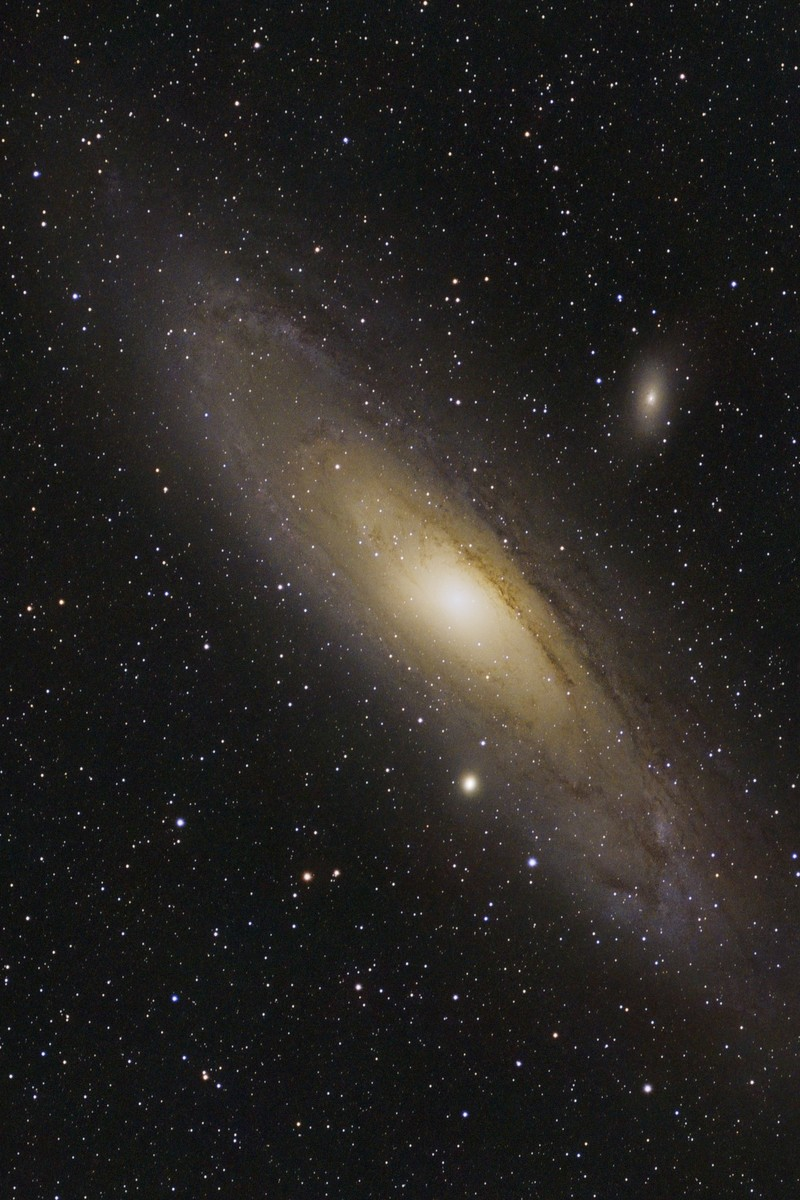
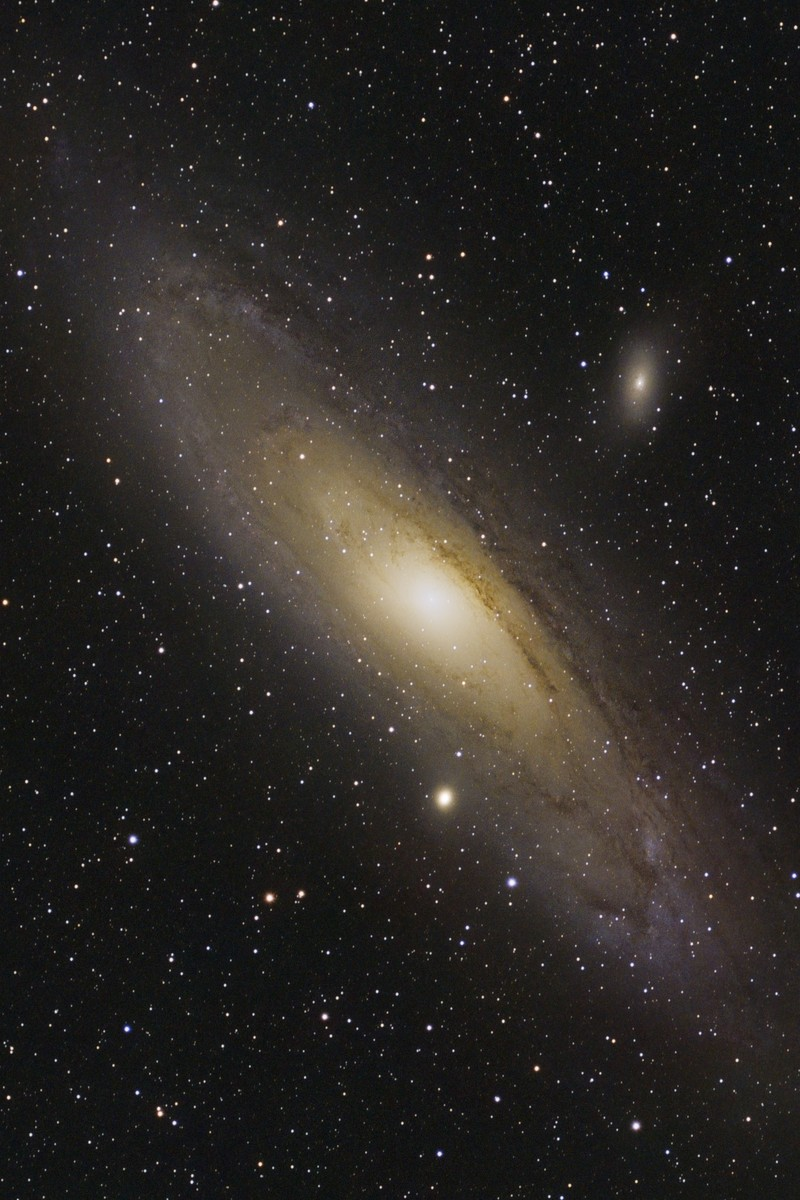
README images from two nights of M31; how to combine nights
The README, gallery and comparison images now come from two nights:
734 subs of 30 s, 6 h 7 min, against 346 and 2 h 53 min before. The
stack's signal-to-noise ratio rose by about 18%.

diff --git a/README.md b/README.md
@@ -8,13 +8,13 @@ I wrote it to process a night of M31 from a ZWO Seestar S30 Pro, then turned tho
 
 ![M31, the Andromeda Galaxy, with satellite galaxies M32 (below the core) and M110 (upper right). The galaxy runs diagonally from upper left to lower right, with a warm yellow core, bluer outer arms and visible dark dust lanes, in a dense field of small stars.](docs/images/m31_final.jpg)
 
-M31 with M32 and M110. ZWO Seestar S30 Pro (160 mm focal length, Sony IMX585 one-shot-colour sensor, IR-cut filter, equatorial mode) at gain 200. 346 of 404 subs of 30 s kept, 2 h 53 min in total, on the night of 2026-11-15. Calibrated with the Seestar's own 5-frame master dark; no flats or bias. Finished with the galaxy look and the optional deconvolution stage at strength 0.5; more targets and full-size crops are in the [gallery](docs/gallery.md).
+M31 with M32 and M110. ZWO Seestar S30 Pro (160 mm focal length, Sony IMX585 one-shot-colour sensor, IR-cut filter, equatorial mode) at gain 200. Two nights of 30 s subs, 15 and 20 November 2026: 734 kept, 6 h 7 min in total. The second night had a bright Moon, so its frames are noisier, and the frames it took after M31 dropped below 35° and into dawn were left out before stacking. Calibrated with the Seestar's own 5-frame master dark; no flats or bias. Finished with the galaxy look and the optional deconvolution stage at strength 0.5; more targets and full-size crops are in the [gallery](docs/gallery.md).
 
 ## Compared with the Seestar's own stack
 
-![Side-by-side comparison of the same field of M31. Left, labelled "Seestar in-app stack": a grey-white galaxy with a soft core and faint, low-contrast dust lanes. Right, labelled "darkroom": the same galaxy with a yellow core, bluish outer arms, clearer dust lanes, smaller stars and a darker, more neutral background.](docs/images/m31_seestar_vs_darkroom.jpg)
+![Side-by-side comparison of the same field of M31. Left, labelled "Seestar in-app stack (1 night)": a grey-white galaxy with a soft core and faint, low-contrast dust lanes. Right, labelled "darkroom (2 nights)": the same galaxy with a yellow core, bluish outer arms, clearer dust lanes, smaller stars and a darker, more neutral background.](docs/images/m31_seestar_vs_darkroom.jpg)
 
-On the left is the stack the Seestar app built during the session (402 frames), cropped to the same field. On the right is darkroom's. Most of the difference comes from three things: the colour is calibrated against Gaia star colours, the noise is removed before the stretch, and the galaxy and the stars are processed as separate layers, so the stars can be made smaller without touching the galaxy. Some of the colour on the right is a deliberate cosmetic push, described in [configuration](docs/configuration.md#colour-and-sharpening).
+On the left is the stack the Seestar app built during the first night (402 frames), resampled onto darkroom's field through the two images' plate solutions. The app stacks one session at a time, so it cannot combine the two nights. On the right is darkroom's two-night result. Most of the difference comes from three things: the colour is calibrated against Gaia star colours, the noise is removed before the stretch, and the galaxy and the stars are processed as separate layers, so the stars can be made smaller without touching the galaxy. Some of the colour on the right is a deliberate cosmetic push, described in [configuration](docs/configuration.md#colour-and-sharpening).
 
 ![Three panels of the same M31 field. Left, "one 30 s sub": a grey frame where only the bright core and a few stars are visible. Middle, "stacked, quick stretch": the full galaxy and its satellites appear, mostly neutral in colour. Right, "finished": the final processed image.](docs/images/m31_progression.jpg)
 

diff --git a/docs/gallery.md b/docs/gallery.md
@@ -6,11 +6,17 @@ Targets processed with darkroom, with the settings that differ from the defaults
 
 ![M31, the Andromeda Galaxy, with M32 below the core and M110 at upper right, running diagonally across a dense star field.](images/m31_final.jpg)
 
-ZWO Seestar S30 Pro at gain 200: 346 of 404 subs of 30 s, 2 h 53 min in total. Galaxy look, `crop = "2:3"`, and the optional deconvolution stage at `strength = 0.5` with the PSF measured from the image (2.5 px).
+ZWO Seestar S30 Pro at gain 200: two nights, 734 subs of 30 s, 6 h 7 min in total (see [two nights](#two-nights) below). Galaxy look, `crop = "2:3"`, and the optional deconvolution stage at `strength = 0.5` with the PSF measured from the image (2.5 px).
 
 ![Three pairs of 1:1 crops from M31. Left of each pair, "before": the core is a bright white disc and the dust lanes are soft. Right, "core 0.3 + deconv 0.5": the core fades smoothly with no white disc, and the dust lanes and stars are slightly crisper. The bottom pair shows M110, whose core is also less washed out.](images/m31_core_deconv.jpg)
 
-Full-size crops of the core, the dust lanes beside it and M110, before and after the two additions from November 2026. Core compression (`[finish] core = 0.3`, now the galaxy look's default) leaves no pixel in the centre clipped; before it, 7% of the centre 60 pixels across was at 98% brightness or more. Deconvolution makes the dust lanes and stars slightly crisper. The blotchy texture in the faint outer disk is still there in both: it comes from too little integration time, and a stronger denoise did not remove it. See [history](history.md#core-compression).
+Full-size crops of the core, the dust lanes beside it and M110 from the first night alone, before and after the two additions from November 2026. Core compression (`[finish] core = 0.3`, now the galaxy look's default) leaves no pixel in the centre clipped; before it, 7% of the centre 60 pixels across was at 98% brightness or more. Deconvolution makes the dust lanes and stars slightly crisper. The blotchy texture in the faint outer disk is still there in both: it comes from too little integration time, and a stronger denoise did not remove it. See [history](history.md#core-compression).
+
+### Two nights
+
+The first night (15 November) gave 404 subs of 30 s under a dark sky, all of them usable. The second (20 November) gave 827, under an 84% Moon 34° from M31: the sky was 1.6 to 2 times brighter, each frame about 30% noisier, and stars about 15% wider (5.2 against 4.5 pixels). Every sub was scored for M31's altitude, the Sun's altitude, sky level, noise, star count and star size. All 404 from the first night and the 487 from the second taken before M31 dropped below 35° went into one folder; after that the star count halved and the last frames were in dawn light. Siril kept 734 of the 891, 6 h 7 min in total.
+
+Against the first night alone, the signal-to-noise ratio of the stack rose by about 18%: from 5.6 to 6.6 in the faint outer disk and from 19.5 to 23.2 in the bright disk. The moonlit frames count for less than dark ones, so this is less than the 30% the sky noise alone predicted. The outer disk is a little smoother, with less colour mottling; at the size of the image above the two versions are hard to tell apart. Colour calibration matched the first night's (factors 0.715 / 1.000 / 0.956). The area both nights cover is about 7% smaller than one night's, so the 2:3 crop is too.
 
 ## M13, the Hercules Cluster
 

diff --git a/docs/usage.md b/docs/usage.md
@@ -138,6 +138,12 @@ The later stages need an image with data everywhere, so the canvas has to be cro
 
 `--reuse-registration` restacks an already solved mosaic, for example with other `keep_*` settings. A mosaic needs more disk space than a normal stack, since the registered frames are 32-bit and as big as the whole canvas.
 
+## Several nights
+
+darkroom stacks one folder of subs, so to combine nights put their subs in one folder. On the same disk, hard links (`ln`) take no extra space; links into each night's own folder work too, since darkroom links the subs into `<work>/process/subs` itself. Keep the exposure, gain and filter the same on every night: the stack is calibrated with one master dark, which has to match the exposure and gain. With `framing = "min"` (the default) the result is cropped to the area every night covers.
+
+Look at each night's frames before adding them. A night with a bright Moon, or frames taken low in the sky or in twilight, add noise as well as signal. `[stack] keep_fwhm` and `keep_round` drop the blurriest frames of the whole set, but not frames that are merely noisy, so leave those out of the folder. The [gallery](gallery.md#two-nights) shows how M31 was combined from a dark night and a moonlit one.
+
 ## Disk space and cleanup
 
 The `stack` stage writes calibrated and registered frames to `<work>/process`: about 80 MB per sub, so 31 GB for the 404 M31 subs. They are only needed to restack. Delete the folder when you are happy with the stack, or set `[stack] clean = true` to have it removed after every successful stack.

diff --git a/docs/history.md b/docs/history.md
@@ -126,3 +126,7 @@ After a code review in November 2026: StarNet2 downloads are hash-checked for ev
 ## A single zero pixel and the mosaic crop
 
 The Alnilam stack has one pixel inside the covered area that is exactly 0 in one channel. The crop used to count any pixel with a 0 in any channel as empty, so that one pixel limited the rectangle: 31.75° and 4140×2814 (69% of the pixels with data). A pixel now counts as empty only when all its channels are 0, and a small empty patch surrounded by data is ignored. On the same stack the crop became 27.5° and 4096×2951 (71%), still with the three belt stars, the Horsehead and the Flame Nebula, and with no empty pixel in it.
+
+## Two nights of M31
+
+The README image now comes from two nights: the first night's 404 subs and 487 of the second night's 827, taken under an 84% Moon, with the frames after M31 dropped below 35° and in twilight left out. Siril kept 734, 6 h 7 min in total. Against the first night alone the stack's signal-to-noise ratio rose by about 18% (outer disk 5.6 to 6.6, bright disk 19.5 to 23.2). darkroom has no multi-night mode; the subs were put in one folder with hard links. No code changed. See the [gallery](gallery.md#two-nights).
